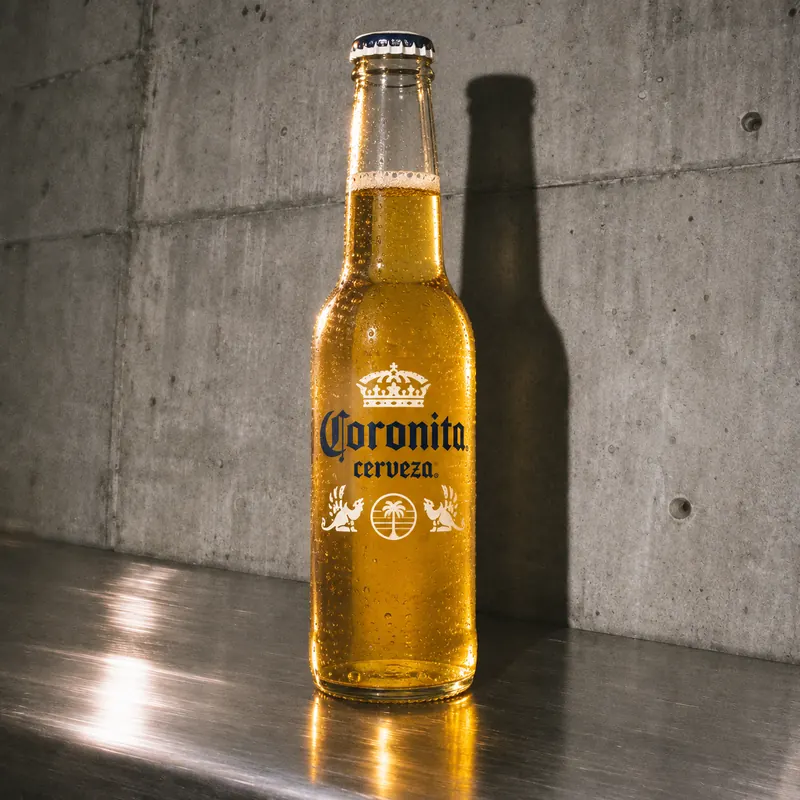
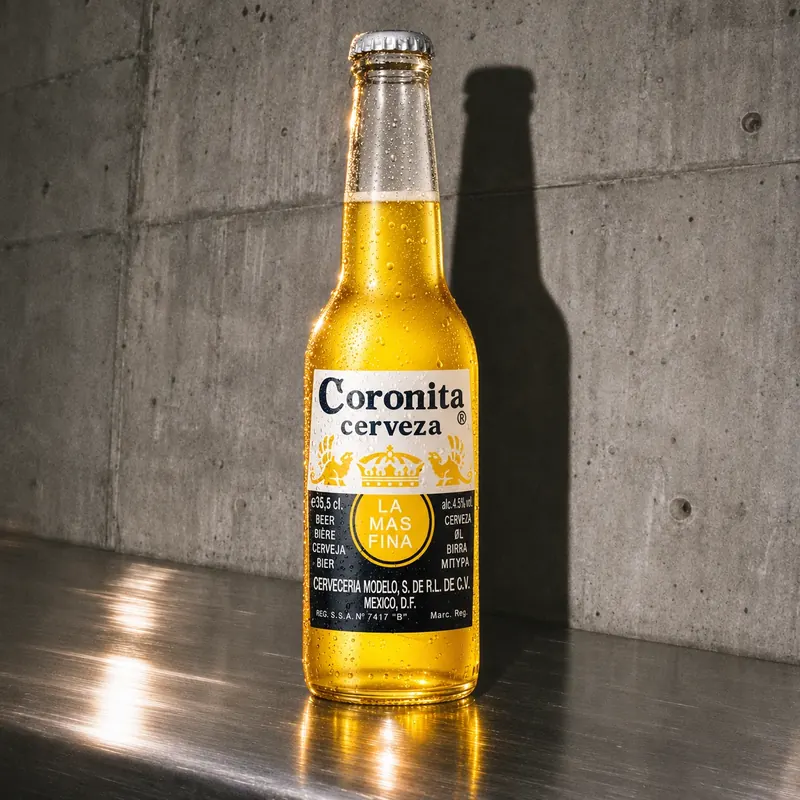
Nuevas fotos de Coronita y Mahou 0,0 Tostada

diff --git a/menu.js b/menu.js
@@ -184,7 +184,7 @@ window.CARTA = {
                 { name: 'Pepsi', img: '/assets/dishes/bebida-pepsi.webp', price: 3.5 }, { name: 'Pepsi Max', img: '/assets/dishes/bebida-pepsi-max.webp', price: 3.5 }, { name: 'Kas Limón', img: '/assets/dishes/bebida-kas-limon.webp', price: 3.5 }, { name: 'Kas Naranja', img: '/assets/dishes/bebida-kas-naranja.webp', price: 3.5 }, { name: 'Aquarade Limón', img: '/assets/dishes/bebida-aquarade-limon.webp', price: 3.5 }, { name: 'Aquarade Naranja', img: '/assets/dishes/bebida-aquarade-naranja.webp', price: 3.5 }, { name: '7UP', img: '/assets/dishes/bebida-7up.webp', price: 3.5 }, { name: 'Lipton', img: '/assets/dishes/bebida-lipton.webp', price: 3.5 }, { name: 'Tónica', img: '/assets/dishes/bebida-tonica.webp', price: 3.5 }
               ] },
               { title: { es: 'Cervezas', en: 'Beers' }, note: { es: 'Tercios · Solo mayores de 18 años', en: 'Tercios · 18+ only' }, compact: true, alPending: true, items: [
-                { name: 'Alhambra Reserva 1925', img: '/assets/dishes/bebida-alhambra-reserva-1925.webp', price: 3.5 }, { name: 'Alhambra Reserva Roja', img: '/assets/dishes/bebida-alhambra-reserva-roja.webp', price: 4 }, { name: 'Mahou 5 Estrellas', img: '/assets/dishes/bebida-mahou-5-estrellas.webp?v=2', price: 3.3 }, { name: 'Mahou Reserva', img: '/assets/dishes/bebida-mahou-reserva.webp?v=2', price: 3.8 }, { name: 'Mahou Session IPA', img: '/assets/dishes/bebida-mahou-session-ipa.webp?v=2', price: 4 }, { name: 'Mahou Sin Gluten', img: '/assets/dishes/bebida-mahou-sin-gluten.webp?v=2', price: 3.5 }, { name: 'Mahou 0,0 Tostada', img: '/assets/dishes/bebida-mahou-00-tostada.webp', price: 3.3 }, { name: 'Coronita', img: '/assets/dishes/bebida-coronita.webp', price: 3.8 }, { name: 'Tinto de verano', img: '/assets/dishes/bebida-tinto-de-verano.webp', price: 3.5 }
+                { name: 'Alhambra Reserva 1925', img: '/assets/dishes/bebida-alhambra-reserva-1925.webp', price: 3.5 }, { name: 'Alhambra Reserva Roja', img: '/assets/dishes/bebida-alhambra-reserva-roja.webp', price: 4 }, { name: 'Mahou 5 Estrellas', img: '/assets/dishes/bebida-mahou-5-estrellas.webp?v=2', price: 3.3 }, { name: 'Mahou Reserva', img: '/assets/dishes/bebida-mahou-reserva.webp?v=2', price: 3.8 }, { name: 'Mahou Session IPA', img: '/assets/dishes/bebida-mahou-session-ipa.webp?v=2', price: 4 }, { name: 'Mahou Sin Gluten', img: '/assets/dishes/bebida-mahou-sin-gluten.webp?v=2', price: 3.5 }, { name: 'Mahou 0,0 Tostada', img: '/assets/dishes/bebida-mahou-00-tostada.webp?v=2', price: 3.3 }, { name: 'Coronita', img: '/assets/dishes/bebida-coronita.webp?v=2', price: 3.8 }, { name: 'Tinto de verano', img: '/assets/dishes/bebida-tinto-de-verano.webp', price: 3.5 }
               ] },
               { title: { es: 'Dobles', en: 'Large beers' }, note: { es: 'Solo mayores de 18 años', en: '18+ only' }, compact: true, alPending: true, items: [
                 { name: 'Mahou Clásica', img: '/assets/dishes/bebida-mahou-clasica.webp?v=2', price: 3 }, { name: 'Mahou Maestra', img: '/assets/dishes/bebida-mahou-maestra.webp?v=2', price: 4.2 }, { name: 'Radler', img: '/assets/dishes/bebida-radler.webp?v=2', price: 3 }

diff --git a/sw.js b/sw.js
@@ -1,5 +1,5 @@
 /* ROCE · App de pedidos: caché sencilla del cascarón de la app (la carta y los pedidos siempre van a la red cuando hay conexión). */
-var V = 'roce-app-144';
+var V = 'roce-app-145';
 var SHELL = ['/', '/carta.css', '/carta.js', '/chef.js', '/menu.js', '/order.js', '/account.js', '/tour.js', '/sheet-drag.js', '/ux.js', '/order.css', '/i18n.js', '/config.js', '/manifest.webmanifest', '/assets/fonts/HelveticaNeue-Regular.woff2?v=2', '/assets/fonts/HelveticaNeue-Bold.woff2?v=2'];
 self.addEventListener('install', function (e) { e.waitUntil(caches.open(V).then(function (c) { return c.addAll(SHELL); }).then(function () { return self.skipWaiting(); })); });
 self.addEventListener('activate', function (e) {

diff --git a/index.html b/index.html
@@ -89,7 +89,7 @@
 })();
 </script>
 <script src="/i18n.js?v=107"></script>
-<script src="/menu.js?v=64"></script>
+<script src="/menu.js?v=65"></script>
 <script src="/carta.js?v=67"></script>
 <script src="/chef.js?v=18"></script>
 <script src="/order.js?v=60"></script>
